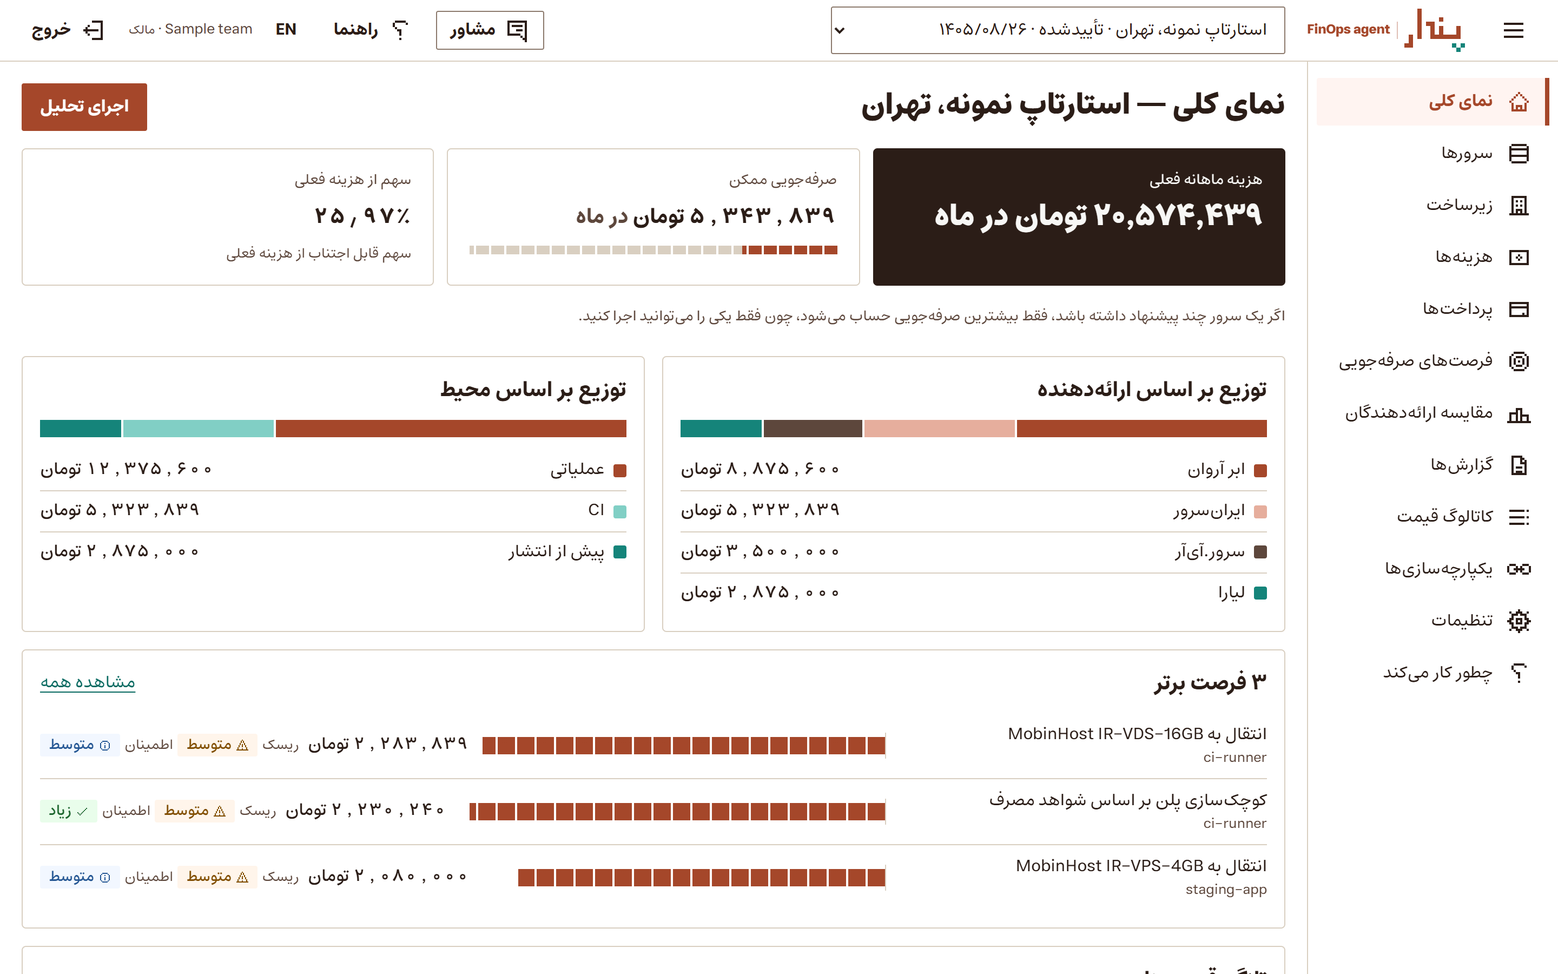
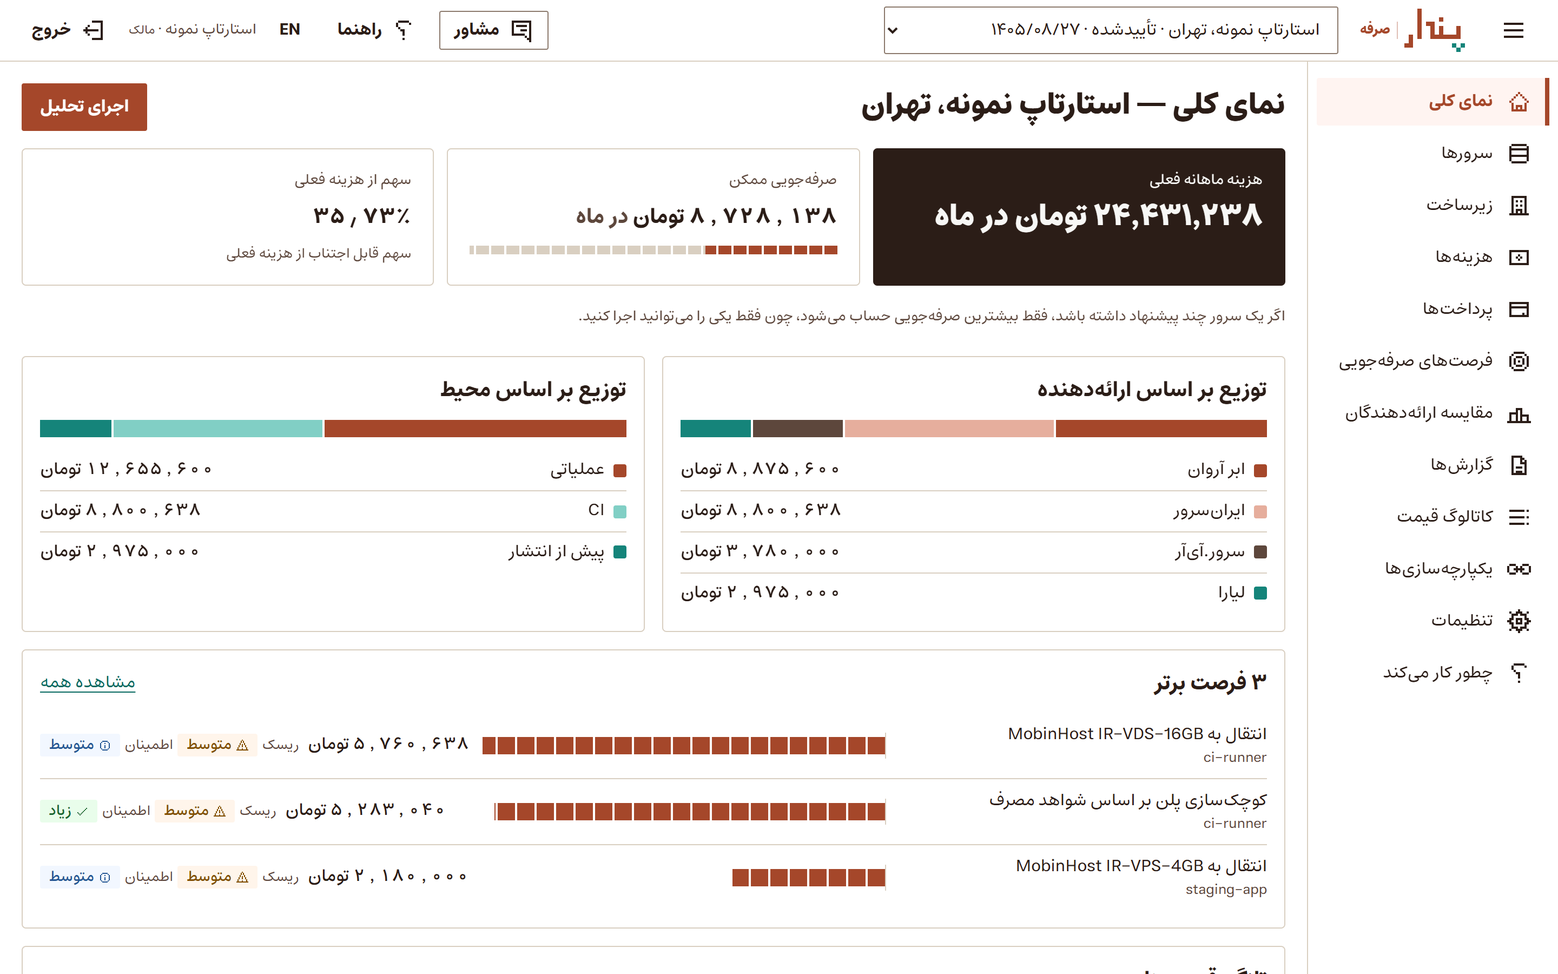
Release 0.4.0: Sarfeh
The dashboard, its emails and reports, and the README say Sarfeh (صرفه). New README screenshots (overview in both
languages, spend with team budgets, a suggestion) at today's prices, and the public prices page in English and
Persian. The dashboard takes ?lang= from its address, and ?tourStep=off keeps the tour away in dev screenshots.

diff --git a/apps/web/src/lib/i18n.tsx b/apps/web/src/lib/i18n.tsx
@@ -4,11 +4,11 @@ export type Lang = "fa" | "en";
 
 /** [fa, en]. Technical terms (FinOps, SKU, IPv4, API...) stay in English inside Persian text. */
 const dict = {
-  appName: ["FinOps agent", "FinOps agent"],
+  appName: ["صرفه", "Sarfeh"],
   // nav
   navOverview: ["نمای کلی", "Overview"],
   navHowItWorks: ["چطور کار میکند", "How it works"],
-  hwTitle: ["FinOps agent چطور کار میکند", "How FinOps agent works"],
+  hwTitle: ["«صرفه» چطور کار میکند", "How Sarfeh works"],
   hwLead: ["هر عددی که میبینید با کد مشخص و از قیمت رسمی ارائهدهنده محاسبه شده است. این صفحه نشان میدهد هر عدد از کجا آمده تا بتوانید خودتان آن را بررسی کنید.", "Every number you see is calculated by fixed rules from the provider's official prices. This page shows where each one comes from, so you can check it yourself."],
   hwStepsTitle: ["از زیرساخت تا صرفهجویی", "From your setup to your savings"],
   hwStep1T: ["زیرساخت را وارد کنید", "Add your setup"],
@@ -195,7 +195,7 @@ const dict = {
   apiRegistrationClosed: ["ثبتنام در این نصب بسته است؛ از مدیر بخواهید شما را اضافه کند.", "Registration is closed on this installation. Ask an admin to add you."],
   noAccount: ["حساب ندارید؟ ثبتنام کنید", "No account? Register"],
   haveAccount: ["حساب دارید؟ وارد شوید", "Have an account? Sign in"],
-  setupTitle: ["راهاندازی FinOps agent", "Set up FinOps agent"],
+  setupTitle: ["راهاندازی «صرفه»", "Set up Sarfeh"],
   setupLead: ["اولین حساب را بسازید. این حساب مالک این نصب است و بعد از آن ثبتنام بسته میشود؛ بقیه را از تنظیمات اضافه میکنید.", "Create the first account. It owns this installation, and sign-up closes after it: you add everyone else from Settings."],
   setupSubmit: ["ساخت حساب و ورود", "Create the account and sign in"],
   demoHint: ["کاربر آزمایشی توسعه: demo@finops-agent.local / demo-password-1", "Dev demo user: demo@finops-agent.local / demo-password-1"],
@@ -250,7 +250,7 @@ const dict = {
   topOpps: ["۳ فرصت برتر", "Top 3 opportunities"],
   viewAll: ["مشاهده همه", "View all"],
   emptyTitle: ["با معرفی زیرساخت شروع کنید", "Start by describing your infrastructure"],
-  emptyBody: ["FinOps agent پیش از هر محاسبهای، جدول زیرساخت شما را برای تأیید نشان میدهد.", "FinOps agent always shows your infrastructure table for confirmation before any pricing."],
+  emptyBody: ["«صرفه» پیش از هر محاسبهای، جدول زیرساخت شما را برای تأیید نشان میدهد.", "Sarfeh always shows your infrastructure table for confirmation before any pricing."],
   loadDemo: ["بارگذاری فضای نمونه", "Load demo workspace"],
   describeChat: ["توصیف در چت", "Describe in chat"],
   uploadInvoice: ["بارگذاری صورتحساب", "Upload invoice"],
@@ -527,7 +527,7 @@ const dict = {
   noRuns: ["هنوز همگامسازیای اجرا نشده است.", "No sync runs yet."],
   // settings
   dayRate: ["نرخ روزانه مهندس (تومان)", "Engineer day rate (Toman)"],
-  dayRateHelp: ["برای محاسبه هزینه یکباره مهاجرت و دوره بازگشت سرمایه لازم است. فقط رقم وارد کنید؛ FinOps agent هیچ نرخ بازاری را فرض نمیکند.", "Needed to compute one-time migration cost and payback. Digits only; FinOps agent never assumes a market rate."],
+  dayRateHelp: ["برای محاسبه هزینه یکباره مهاجرت و دوره بازگشت سرمایه لازم است. فقط رقم وارد کنید؛ «صرفه» هیچ نرخ بازاری را فرض نمیکند.", "Needed to compute one-time migration cost and payback. Digits only; Sarfeh never assumes a market rate."],
   digitsOnly: ["فقط رقم (مثلاً 4000000)", "Digits only (e.g. 4000000)"],
   saved: ["ذخیره شد", "Saved"],
   auditLog: ["گزارش ممیزی (Audit log)", "Audit log"],
@@ -572,7 +572,7 @@ const dict = {
   tourSkip: ["رد کردن", "Skip"],
   tourDone: ["شروع کنیم", "Let's start"],
   tourStepOf: ["گام", "Step"],
-  tourWelcomeT: ["به FinOps agent خوش آمدید", "Welcome to FinOps agent"],
+  tourWelcomeT: ["به «صرفه» خوش آمدید", "Welcome to Sarfeh"],
   tourWelcomeB: [
     "در یک دقیقه بخشهای اصلی را معرفی میکنیم. اصل اول: همه اعداد مالی از موتور قطعی میآیند، نه از هوش مصنوعی.",
     "A one-minute tour of the main parts. Rule one: every financial number comes from the deterministic engine, never from AI.",
@@ -723,7 +723,7 @@ const dict = {
   baleNone: ["هنوز گفتگویی وصل نشده است.", "No chats linked yet."],
   baleGetCode: ["گرفتن کد اتصال", "Get a link code"],
   baleSend: ["در بله، این را برای {bot} بفرستید:", "In Bale, send this to {bot}:"],
-  baleTheBot: ["ربات FinOps agent", "the FinOps agent bot"],
+  baleTheBot: ["ربات «صرفه»", "the Sarfeh bot"],
   baleCodeExpires: ["کد ۱۵ دقیقه اعتبار دارد و یک بار کار میکند.", "The code works once, for 15 minutes."],
   baleUnlink: ["جدا کردن", "Unlink"],
   baleUnlinkConfirm: ["این گفتگو جدا شود؟ دیگر هشدار و گزارشی به آن نمیرسد.", "Unlink this chat? It won't get alerts or reports any more."],
@@ -778,6 +778,16 @@ const Ctx = createContext<I18n | null>(null);
 const LANG_KEY = "finops.lang";
 
 function initialLang(): Lang {
+  // ?lang=en or ?lang=fa in the address wins, and is remembered: a link can open the dashboard in a given language
+  const asked = new URLSearchParams(window.location.search).get("lang");
+  if (asked === "en" || asked === "fa") {
+    try {
+      localStorage.setItem(LANG_KEY, asked);
+    } catch {
+      /* ignore */
+    }
+    return asked;
+  }
   try {
     const v = localStorage.getItem(LANG_KEY);
     if (v === "en" || v === "fa") return v;

diff --git a/apps/web/src/components/Brand.tsx b/apps/web/src/components/Brand.tsx
@@ -6,9 +6,6 @@ import type { CSSProperties } from "react";
 import { LAYING, MARKS } from "../pendar/logo";
 import { useI18n } from "../lib/i18n";
 
-/** The product's own name, set beside Pendar's wordmark (products guideline). */
-export const PRODUCT_NAME = "FinOps agent";
-
 type Mark = { viewBox: string; brick: string; glaze: readonly string[] };
 
 function MarkSvg({ mark, className, label }: { mark: Mark; className: string; label?: string }) {
@@ -59,13 +56,14 @@ export function Wordmark({ label, laid }: { label?: string; laid?: boolean }) {
  * `laid` lays the wordmark when it first appears; the rule and the name follow once the last brick has settled.
  */
 export function Lockup({ large, laid }: { large?: boolean; laid?: boolean }) {
-  const { lang } = useI18n();
+  const { lang, t } = useI18n();
   const bricks = LAYING[lang === "en" ? "en" : "fa"].bricks.length;
   return (
     <span className={`lockup${large ? " lockup-lg" : ""}${laid ? " is-laying" : ""}`} style={laid ? ({ "--n": bricks } as CSSProperties) : undefined}>
       <Wordmark label={lang === "en" ? "Pendar" : "پندار"} laid={laid} />
       <span className="lockup-rule" aria-hidden />
-      <span className="lockup-name">{PRODUCT_NAME}</span>
+      {/* the product's own name, set beside Pendar's wordmark (products guideline) */}
+      <span className="lockup-name">{t("appName")}</span>
     </span>
   );
 }

diff --git a/apps/web/src/components/Tour.tsx b/apps/web/src/components/Tour.tsx
@@ -70,6 +70,7 @@ export function TourProvider({ children, onNeedNav }: { children: ReactNode; onN
       // Dev-only: ?tourStep=N opens the tour at step N (used for visual review screenshots).
       // Only when the parameter is there: Number(null) is 0, which used to open the tour on every dev page load.
       const devParam = import.meta.env.DEV ? new URLSearchParams(window.location.search).get("tourStep") : null;
+      if (devParam === "off") return; // ?tourStep=off: no tour, for screenshots of the pages themselves
       const devStep = devParam === null ? NaN : Number(devParam);
       if (Number.isInteger(devStep) && devStep >= 0 && devStep < STEPS.length) {
         window.setTimeout(() => setI(devStep), 700);

diff --git a/apps/web/index.html b/apps/web/index.html
@@ -7,7 +7,7 @@
     <link rel="icon" href="/favicon.ico" sizes="48x48" />
     <link rel="icon" href="/favicon.svg" type="image/svg+xml" />
     <link rel="apple-touch-icon" href="/apple-touch-icon.png" />
-    <title>FinOps agent</title>
+    <title>صرفه | Sarfeh</title>
   </head>
   <body>
     <div id="root"></div>

diff --git a/apps/api/finops_api/routers/auth.py b/apps/api/finops_api/routers/auth.py
@@ -143,10 +143,10 @@ class ChangePasswordIn(BaseModel):
 
 
 RESET_EMAIL = {
-    "fa": ("بازنشانی رمز عبور FinOps agent",
+    "fa": ("بازنشانی رمز عبور «صرفه»",
            "برای انتخاب رمز تازه، این پیوند را باز کنید. پیوند فقط یک بار و تا {minutes} دقیقه کار میکند.\n\n{link}\n\n"
            "اگر شما این را نخواستهاید، این پیام را نادیده بگیرید؛ رمز فعلیتان تغییری نمیکند."),
-    "en": ("Reset your FinOps agent password",
+    "en": ("Reset your Sarfeh password",
            "Open this link to choose a new password. It works once, for {minutes} minutes.\n\n{link}\n\n"
            "If you didn't ask for this, ignore this email; your password stays the same."),
 }

diff --git a/apps/api/finops_api/main.py b/apps/api/finops_api/main.py
@@ -24,7 +24,7 @@ log = logging.getLogger("finops.api")
 def create_app() -> FastAPI:
     configure_logging()
     s = get_settings()
-    app = FastAPI(title="FinOps agent API", version="0.3.1",
+    app = FastAPI(title="Sarfeh API", version="0.4.0",
                   description="Iran-first FinOps. All prices/savings come from the deterministic engine; "
                               "money fields are exact decimal strings in Toman.")
     app.add_middleware(CORSMiddleware, allow_origins=s.cors_origins, allow_credentials=False,

diff --git a/apps/api/finops_api/report.py b/apps/api/finops_api/report.py
@@ -15,7 +15,7 @@ from .security import Principal
 from .services import analysis_resources, latest_analysis, latest_quote, rec_view, run_recommendations, snapshot
 
 T = {
-    "title": ("گزارش FinOps agent", "FinOps agent report"),
+    "title": ("گزارش «صرفه»", "Sarfeh report"),
     "s1": ("۱. خلاصه مدیریتی", "1. Executive summary"),
     "s2": ("۲. فهرست منابع تأییدشده", "2. Confirmed inventory"),
     "s3": ("۳. هزینه ماهانه فعلی", "3. Current monthly cost"),

diff --git a/apps/api/finops_api/cli.py b/apps/api/finops_api/cli.py
@@ -87,8 +87,8 @@ def cmd_test_alerts(args: argparse.Namespace) -> None:
     from .alerts import _send_bale, _send_email
 
     s = get_settings()
-    subject = "FinOps agent: test alert"
-    body = "This is a test from FinOps agent. Alerts about prices and renewals will arrive here."
+    subject = "Sarfeh: test alert"
+    body = "This is a test from Sarfeh. Alerts about prices and renewals will arrive here."
     tried = failed = 0
     if s.smtp_host:
         tried += 1

diff --git a/README.md b/README.md
@@ -1,6 +1,6 @@
 <div align="center">
 
-# FinOps agent
+# Sarfeh (صرفه)
 
 **Know what your Iranian servers really cost, and where you can safely pay less.**
 
@@ -13,7 +13,7 @@ Install it on one server and see the real cost and usage of all of them.
 ![Python 3.12+](https://img.shields.io/badge/python-3.12%2B-3776AB.svg)
 ![Status: early](https://img.shields.io/badge/status-early-orange.svg)
 
-[Quick start](#quick-start) · [How it works](#how-it-works) · [Providers](#supported-providers) · [Roadmap](#roadmap) · [فارسی](#فارسی)
+[Prices page](https://pendarsolutions.ir/sarfeh/prices/) · [Quick start](#quick-start) · [How it works](#how-it-works) · [Providers](#supported-providers) · [Roadmap](#roadmap) · [فارسی](#فارسی)
 
 </div>
 
@@ -21,12 +21,20 @@ Install it on one server and see the real cost and usage of all of them.
 
 ---
 
-## Why FinOps agent?
+## Iranian cloud prices, side by side
+
+Not ready to install anything? The [prices page](https://pendarsolutions.ir/sarfeh/prices/) shows one server size at
+every provider, cheapest first, read from each provider's own page twice a day, with the source and the date beside
+every price. The table behind it is open: [prices.json](https://pendarsolutions.ir/sarfeh/prices.json).
+
+<p align="center"><img src="docs/images/prices.png" alt="The prices page: 2 vCPU, 4 GB and 50 GB at seven providers, cheapest first, each with its plan, traffic terms, source and the date it was read" width="900"></p>
+
+## Why Sarfeh?
 
 Iranian providers price their services in very different ways: per component, per plan, per hour or per
 30 days, each with its own traffic rules. Comparing them by hand is slow, and it's easy to get wrong.
 
-FinOps agent turns your servers, or just a description of your infrastructure, into exact costs, a like-for-like
+Sarfeh turns your servers, or just a description of your infrastructure, into exact costs, a like-for-like
 comparison and savings you can check yourself. You don't need Terraform, tagging or cloud credentials.
 
 - 🖥 **One installation, all your servers.** Real usage is read over SSH with a key that can only run one read-only script.
@@ -129,7 +137,7 @@ flowchart LR
    budget for the organization and each team, and get an alert by email or Bale at 80% and 100%, or when a
    provider's or team's month jumps.
 
-<p align="center"><img src="docs/images/spend.png" alt="The Spend page: an invoice to check, paid this month and last, the estimate, budgets per team, and paid month by month" width="900"></p>
+<p align="center"><img src="docs/images/spend.png" alt="The Spend page: paid this month and last, this month's estimate, budgets for the organization and each team, and paid month by month" width="900"></p>
 
 ## Supported providers
 
@@ -222,7 +230,7 @@ Contributions are welcome, especially new provider scrapers and price correction
 
 ## فارسی
 
-**FinOps agent** یک ابزار متنباز برای مدیریت هزینه زیرساخت است، مخصوص استارتاپها و تیمهای کوچکی که از ارائهدهندگان ابری و VPS ایرانی استفاده میکنند.
+**صرفه** یک ابزار متنباز برای مدیریت هزینه زیرساخت است، مخصوص استارتاپها و تیمهای کوچکی که از ارائهدهندگان ابری و VPS ایرانی استفاده میکنند.
 
 آن را روی یک سرور نصب میکنید و سرورهای دیگر را از داشبورد اضافه میکنید، یا زیرساخت خود را با فرم، چت یا فاکتور وارد میکنید. پس از تأیید، هزینه دقیق، مقایسه ارائهدهندگان و پیشنهادهای صرفهجویی را همراه با منبع و تاریخ قیمت میبینید.
 
@@ -232,6 +240,10 @@ Contributions are welcome, especially new provider scrapers and price correction
 - پرداختهای هر ماه را از روی فاکتور، شارژ کیف پول یا یک فایل CSV ثبت میکنید و کنار هزینهای میبینید که زیرساخت تأییدشده باید داشته باشد؛ اختلاف بیش از ۱۰٪ علامت میخورد.
 - هر منبع، سرور و پرداخت میتواند مال یک تیم باشد؛ هزینه هر تیم را هر ماه میبینید و برای کل سازمان و هر تیم بودجه میگذارید و در ۸۰٪ و ۱۰۰٪ با ایمیل یا بله هشدار میگیرید.
 - برنامه بدون سرویس خارجی هوش مصنوعی هم کار میکند.
+
+قیمت سرورهای ابری ارائهدهندگان ایرانی را بدون نصب هم میتوانید ببینید: [صفحه قیمتها](https://pendarsolutions.ir/sarfeh/prices/) یک اندازه سرور را نزد همه ارائهدهندگان کنار هم میگذارد، روزی دو بار از صفحه رسمی هر کدام خوانده میشود و کنار هر قیمت منبع و تاریخ آن آمده است.
+
+<p align="center"><img src="docs/images/prices-fa.png" alt="صفحه قیمتها: ۲ هسته، ۴ گیگابایت حافظه و ۵۰ گیگابایت دیسک نزد هفت ارائهدهنده، از ارزان به گران، با منبع و تاریخ هر قیمت" width="900"></p>
 
 <p align="center"><img src="docs/images/overview-fa.png" alt="نمای کلی به فارسی: هزینه ماهانه، صرفهجویی ممکن، هزینه به تفکیک ارائهدهنده و محیط، و سه پیشنهاد اول" width="900"></p>
 

diff --git a/docs/releases/v0.4.0.md b/docs/releases/v0.4.0.md
@@ -1,0 +1,40 @@
+Sarfeh 0.4.0 is the first release under the new name. It adds what you actually paid, who spent it and budgets, a
+public price page that stays current, and a read-only demo mode.
+
+## The name
+
+FinOps agent is now **Sarfeh** (صرفه). The command is `sarfeh`; `finops-agent` still works as another name for it.
+The install folder, the Docker project and the image names don't change, so your data stays where it is.
+
+## Added
+
+- **Spend.** Record what you paid each month, by hand, from an invoice or from a CSV of your history. On the 1st, the
+  confirmed setup is priced and kept as that month's estimate, and gaps over 10% between paid and estimated are
+  flagged.
+- **Owners and budgets.** Give resources, servers and payments a team and see each team's cost every month. Set a
+  budget for the organization and each team, and get an alert by email or Bale at 80% and 100%, or when a month jumps.
+- **A public price page** at [pendarsolutions.ir/sarfeh/prices](https://pendarsolutions.ir/sarfeh/prices/): one server
+  size at every provider, cheapest first, read twice a day from each provider's page, with the source and the date.
+- **Demo mode** (`DEMO_MODE=true`) for an installation of its own: visitors land in a sample workspace without
+  signing in, and nothing can be changed.
+
+## Fixed
+
+- **IranServer** prices were read with CPU and memory swapped after its page reordered its columns.
+- **Chabokan's** cheapest plan was missing, and its closed Mashhad plans no longer count as expected.
+- **MobinHost** plans with no capacity left count as sold out.
+
+## Upgrade
+
+```bash
+sudo finops-agent upgrade
+```
+
+It backs up first, then moves to 0.4.0 and keeps your settings and data. From then on the command is also `sarfeh`.
+From 0.2.0 or earlier, run the installer:
+
+```bash
+curl -fsSL https://github.com/{{REPO}}/releases/download/v{{VERSION}}/install.sh | sudo bash
+```
+
+The full list of changes is in the [changelog](https://github.com/{{REPO}}/blob/v{{VERSION}}/CHANGELOG.md).

diff --git a/CHANGELOG.md b/CHANGELOG.md
@@ -5,6 +5,11 @@ and versions follow [Semantic Versioning](https://semver.org/). Until 1.0, a min
 
 ## [Unreleased]
 
+## [0.4.0] — 2026-11-18
+
+The product is called Sarfeh (صرفه), with a public price page that stays current, a spend ledger, owners and
+budgets, and a public demo mode.
+
 ### Added
 
 - **A public demo mode** (`DEMO_MODE=true`, for an installation of its own): anyone who opens the dashboard lands
@@ -50,7 +55,9 @@ and versions follow [Semantic Versioning](https://semver.org/). Until 1.0, a min
   and guardrails as an installation, keeps each provider's last good prices when a page can't be read, and writes
   `prices.json`; on pendarsolutions.ir/sarfeh/ it runs twice a day (`deploy/sarfeh-site`). A price read more than 14
   days ago is marked on the page.
-- The website is called **Sarfeh** (صرفه), and can be built for a folder (`SITE_BASE=/sarfeh/`).
+- **The product is called Sarfeh** (صرفه): the dashboard, its emails and reports, the website and the README. The
+  website can be built for a folder (`SITE_BASE=/sarfeh/`).
+- The dashboard opens in a given language with `?lang=en` or `?lang=fa` in its address.
 - **The command is `sarfeh`:** `sudo sarfeh status`, `sudo sarfeh upgrade` and so on. `finops-agent` still works as
   another name for it, and an installation that upgrades gets the new name without running the installer again. The
   install folder (`/opt/finops-agent`), the Docker project and the image names are unchanged, so existing data stays

diff --git a/docs/releasing.md b/docs/releasing.md
@@ -21,7 +21,7 @@ release is live for new installs the moment it's published. Existing installatio
 
    ```bash
    git commit -am "Release 0.3.0"
-   git tag -a v0.3.0 -m "FinOps agent 0.3.0"
+   git tag -a v0.3.0 -m "Sarfeh 0.3.0"
    git push origin main v0.3.0
    ```
 
